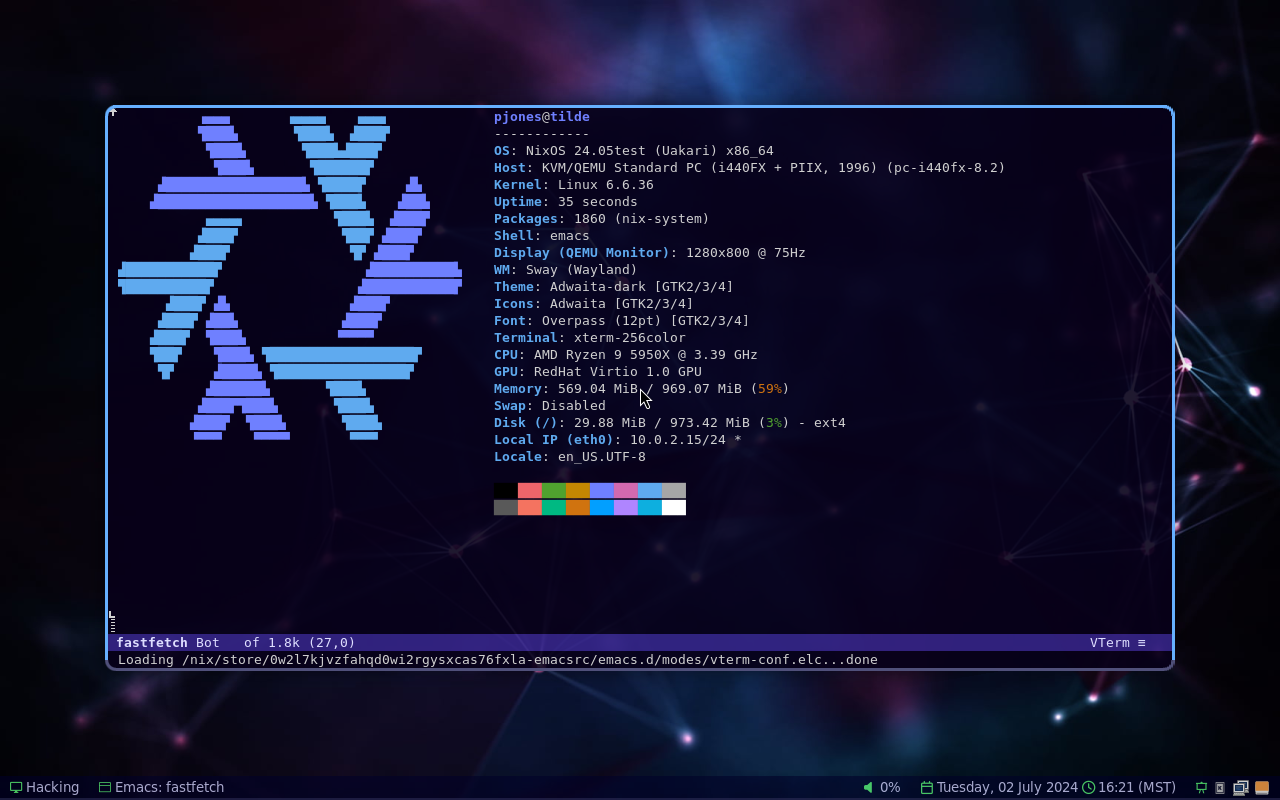
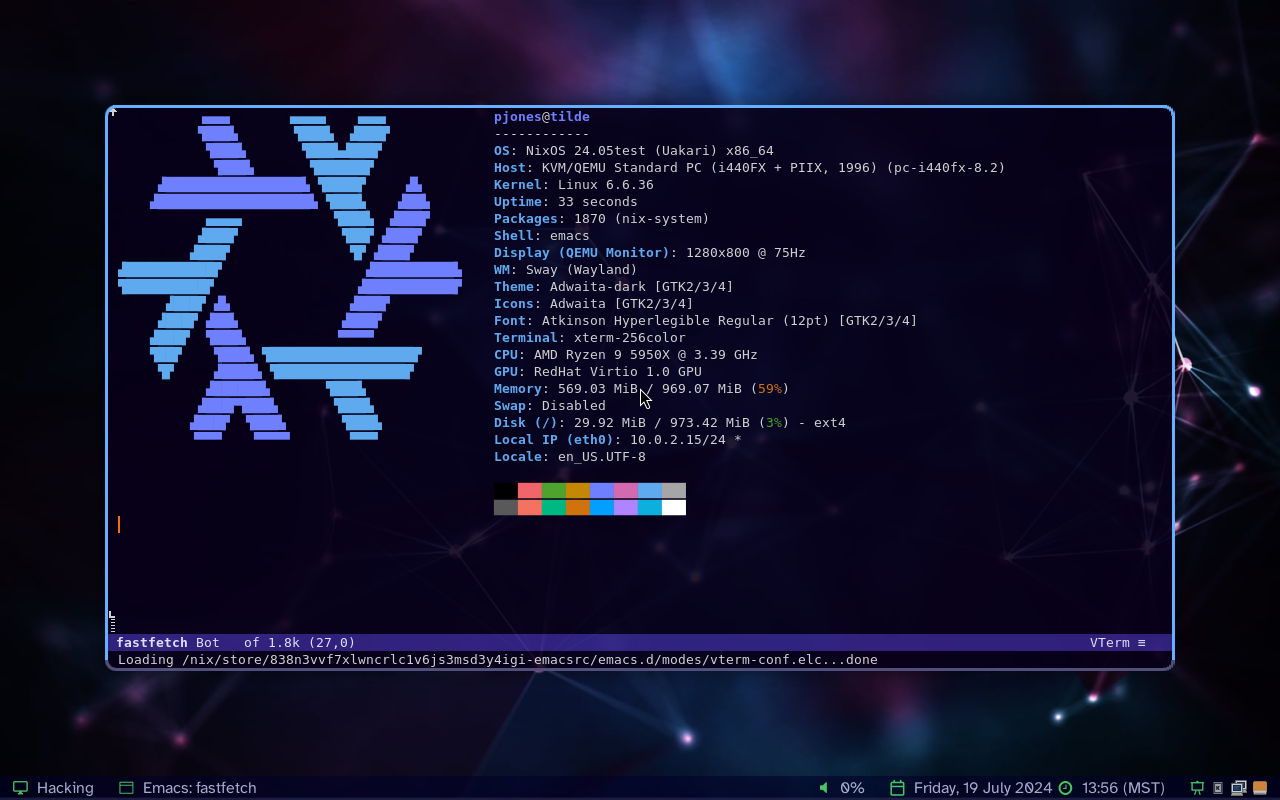
deps: Update some dependencies and change default font

diff --git a/README.md b/README.md
@@ -21,6 +21,8 @@ running in an ephemeral virtual machine (`nix flake check`).
 
   * Monospace Font: [Hermit](https://pcaro.es/p/hermit/)
 
+  * Variable-spaced Font: [Atkinson Hyperlegible][hyperlegible]
+
   * Desktop: [SwayFX on Wayland][superkey]
 
 ## Try It Out
@@ -40,3 +42,4 @@ can be found in my [Wayland configuration][superkey].
 [home-manager]: https://github.com/rycee/home-manager
 [superkey]: https://github.com/pjones/superkey
 [emacs]: https://github.com/pjones/emacsrc
+[hyperlegible]: https://brailleinstitute.org/freefont
